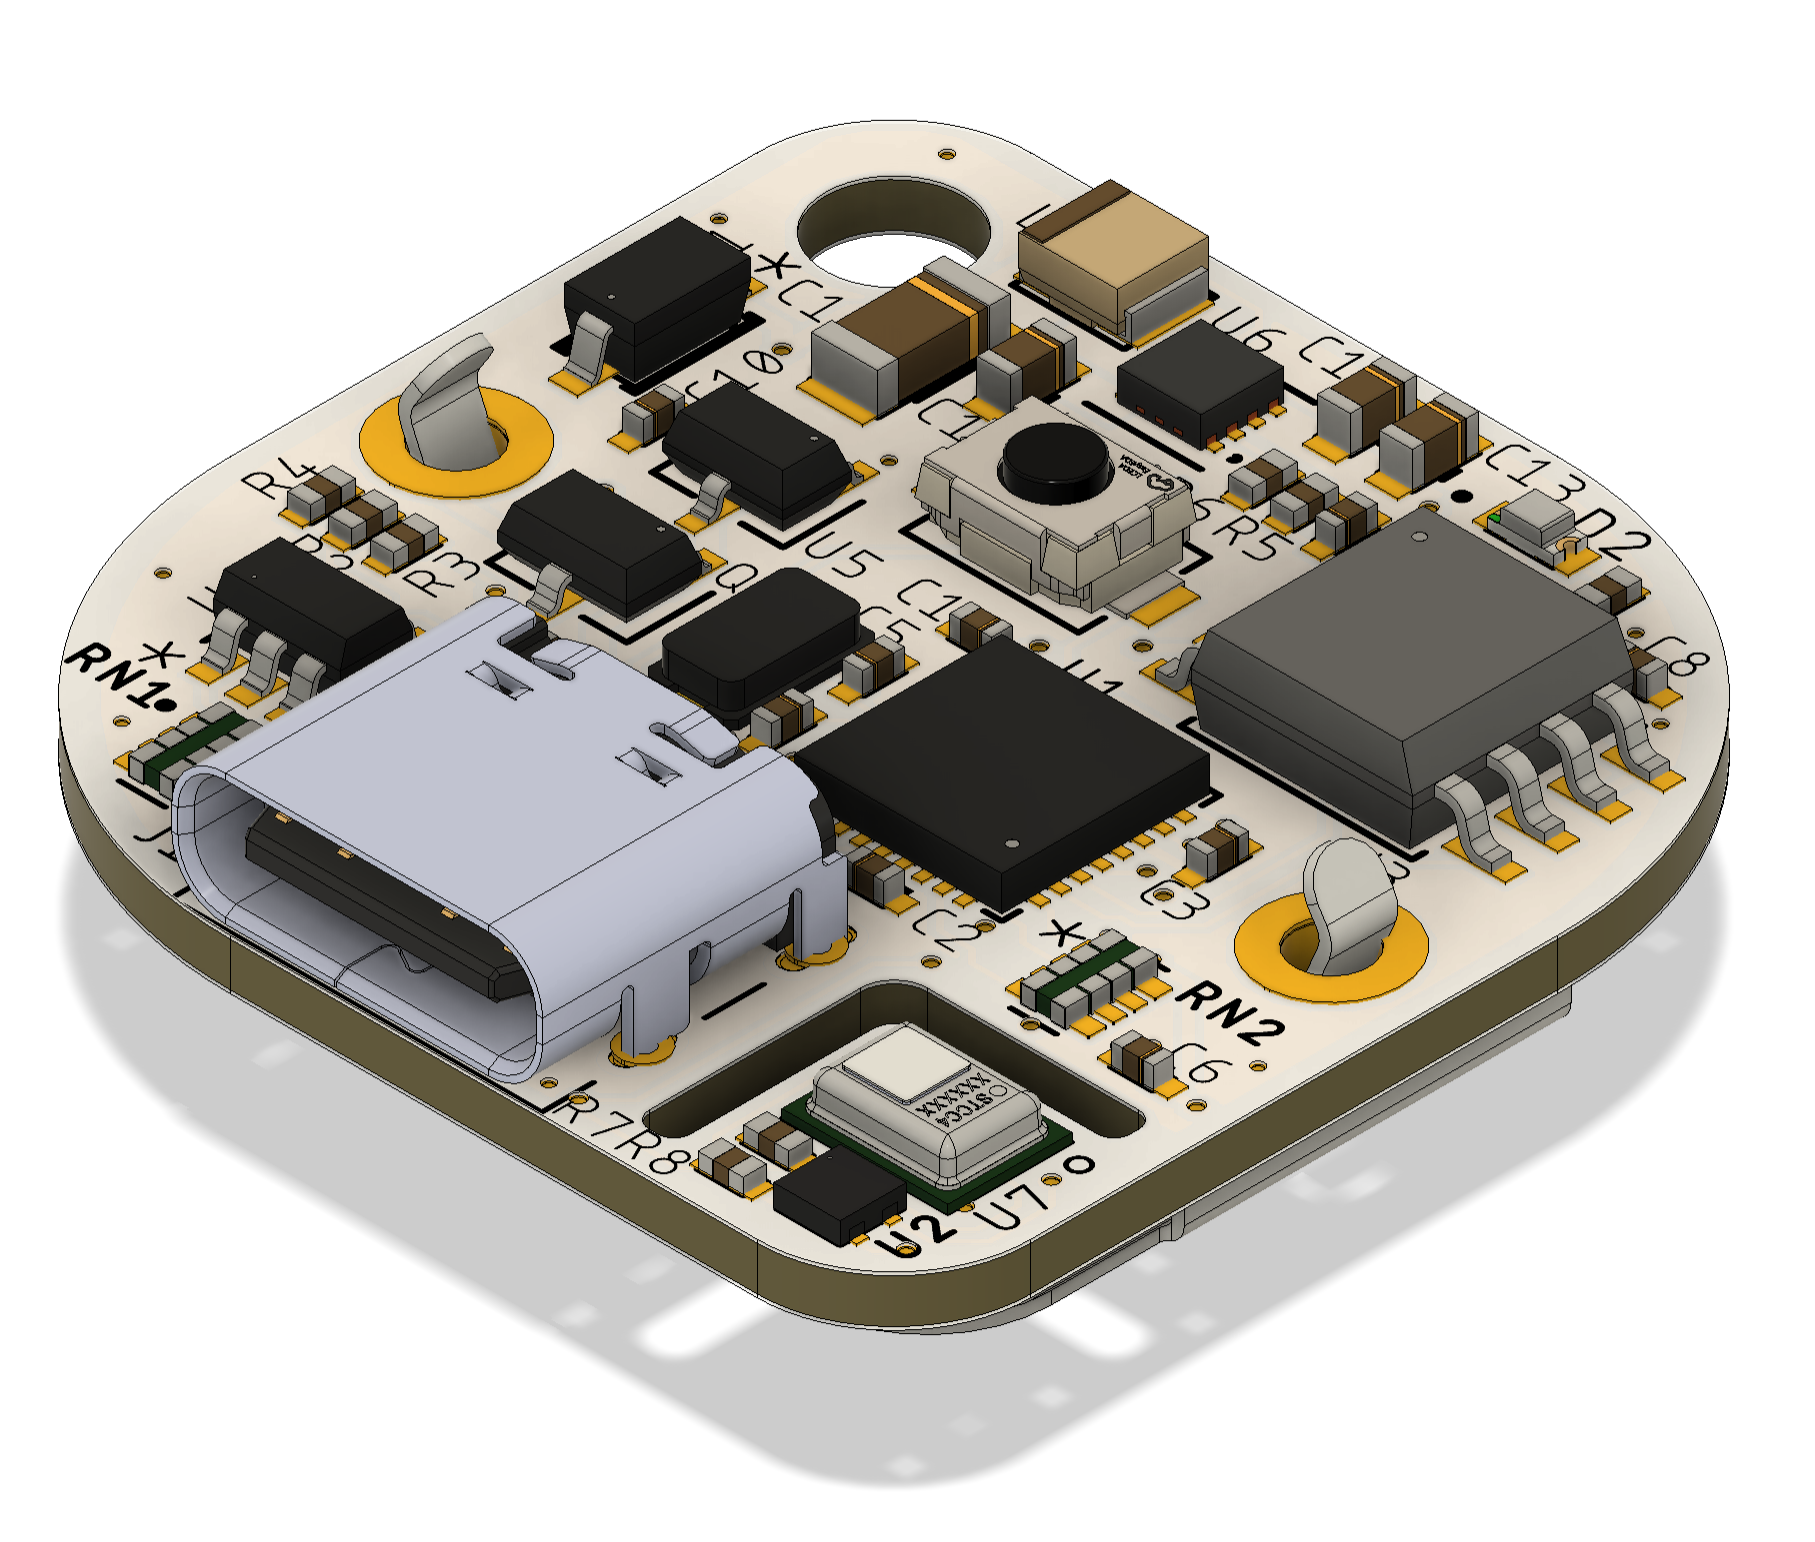
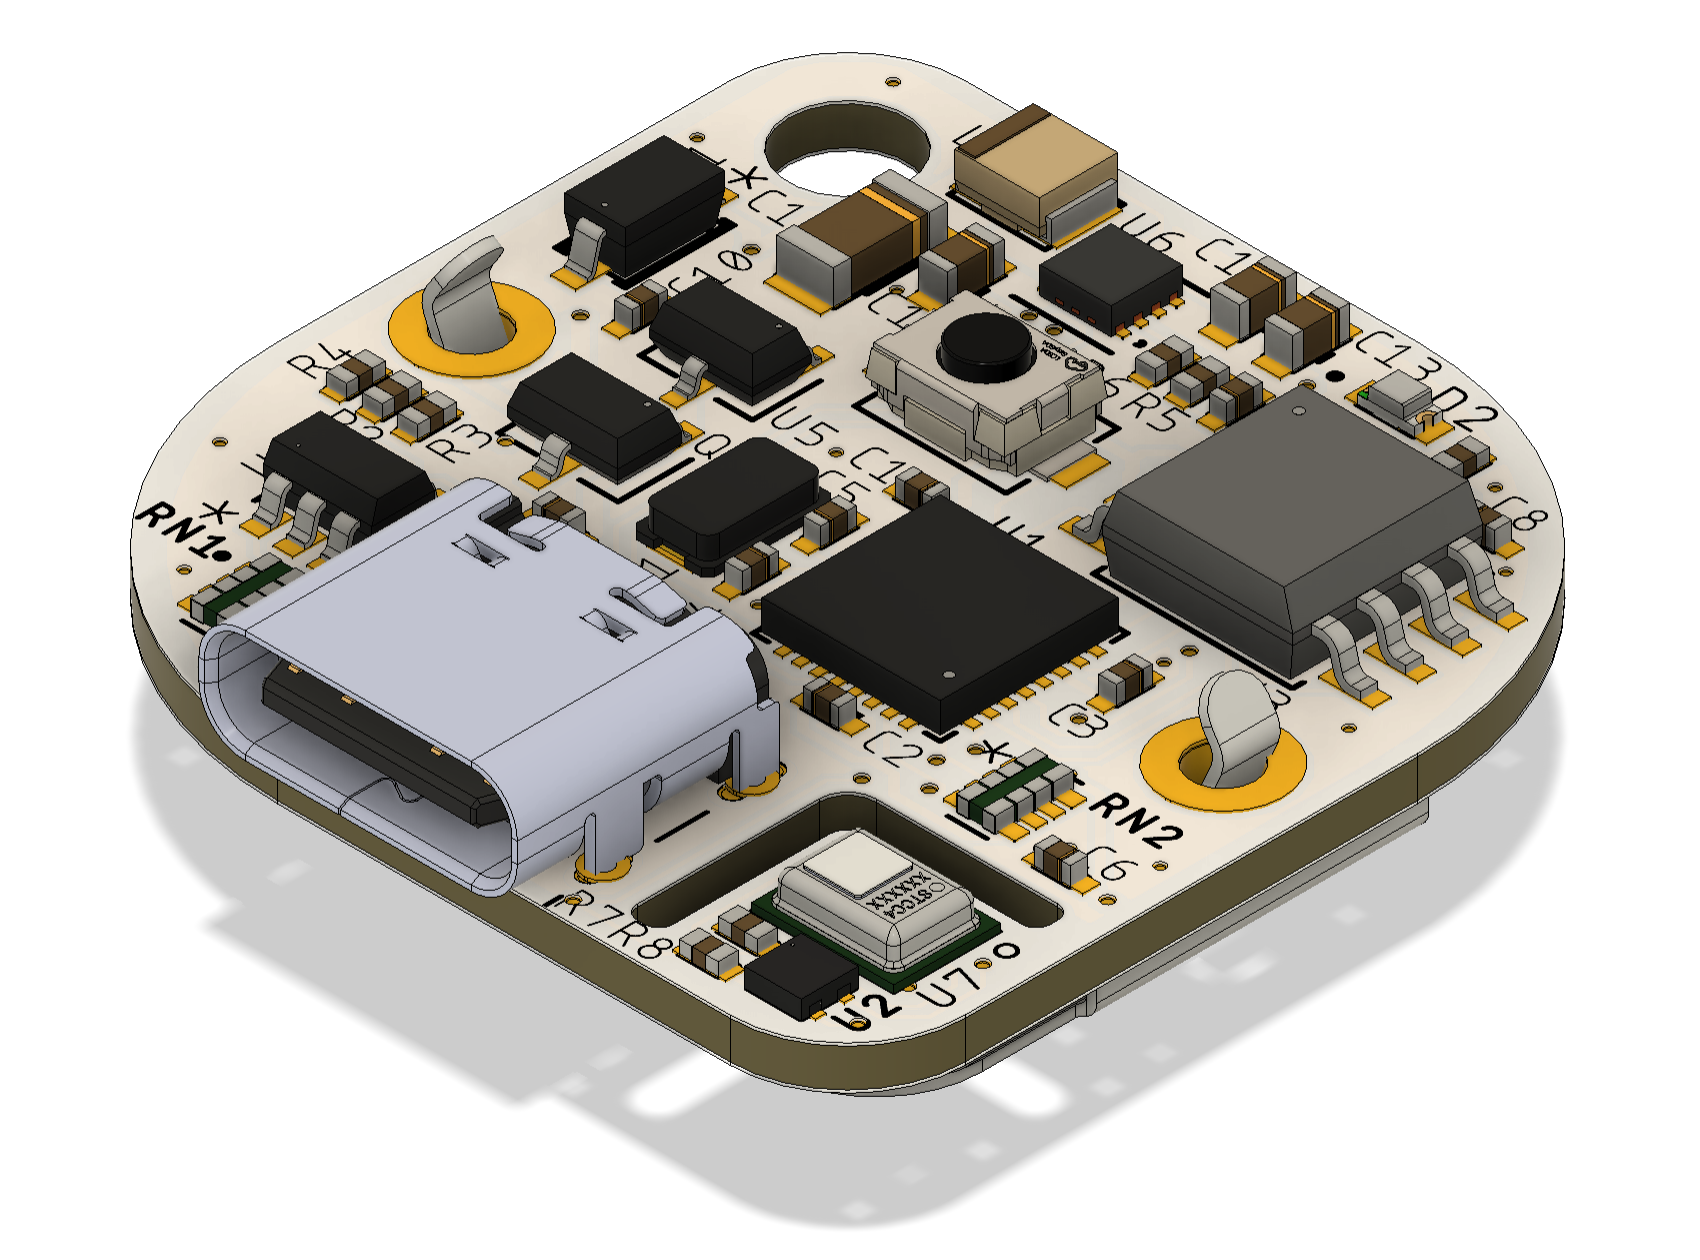
README と取扱説明書を追加、基板の外観・レイアウト図を更新

Changed region(s): [[0.0312, 0.031, 0.9665, 0.8976], [0.4365, 0.9286, 0.5924, 0.9905], [0.2182, 0.8048, 0.2494, 0.8357]]

diff --git a/docs/manual.md b/docs/manual.md
@@ -1,0 +1,155 @@
+# C-Logger 取扱説明書
+
+C-Logger は、温度・湿度（CO2あり版は CO2 濃度も）を一定間隔で記録するデータロガーです。
+ボタン電池（CR2032）1個で動き、記録したデータは USB で PC に読み出して CSV ファイルにします。
+
+![C-Logger](images/3d_top.png)
+
+## 1. 製品の種類
+
+| 種類 | 記録する項目 |
+|---|---|
+| CO2あり版 | CO2 濃度・温度・湿度 |
+| CO2なし版 | 温度・湿度 |
+
+どちらの版かは、PCツールの接続時に表示される「Sensors」の欄で確認できます。
+
+## 2. 各部の名前
+
+- **USB 端子（Type-C）**: PC との通信と給電に使います。
+- **ボタン**: ケース上面の小さな穴の奥にあります。ペン先など細いもので押してください。押している間 LED が点灯します（動作の確認用）。5秒間押し続けると記録を止めます。
+- **LED（赤）**: 状態を表示します（「4. LED の表示」を参照）。
+- **電池ホルダ（裏面）**: CR2032 を1個入れます。
+
+## 3. 電池の入れ方
+
+1. 本体を裏返し、電池ホルダの金具の下に CR2032 を横から差し込みます。
+2. **＋面（文字が書かれた面）を金具側（外側）**に向けます。逆に入れると動きません。
+3. 電池を入れると、USB につないでいなければ待機状態になります（LED は消灯）。
+
+- 電池を交換するときは、記録を止めてから交換してください。記録中に電池を抜いても、それまでに記録したデータは消えません。
+- USB につないでいる間は USB から給電され、電池は使いません。
+
+## 4. LED の表示
+
+| 状態 | LED |
+|---|---|
+| USB 通信中（USB につないでいる） | 1秒ごとに短く1回点滅 |
+| 記録中 | 消灯（ボタンを押している間だけ点灯） |
+| 待機中（電池のみ、記録していない） | 消灯（ボタンを押している間だけ点灯） |
+| 電池切れ | 3秒ごとに1回点滅（記録は止まっています） |
+| ファームウェア更新の待機中 | 約0.7秒ごとに短く2回点滅（「7-2. ファームウェアの更新」を参照） |
+
+## 5. 使い方の流れ
+
+1. **PCツールを用意する**（「6. PCツール」を参照）。
+2. **記録を始める**: USB で PC につなぎ、PCツールで記録間隔を指定して記録を開始します。時刻は PC に合わせられ、それまでのデータは消去されます。
+3. **設置する**: 記録を始めると本体は USB から切り離されます。USB ケーブルを抜いて設置してください。電池で記録を続けます。
+4. **回収してデータを読み出す**: USB で PC につなぐと記録が止まり、USB 通信の状態になります（データは消えません）。PCツールで CSV に保存します。
+
+記録を止める方法は2つです。
+
+- USB で PC につなぐ
+- ボタンをペン先などで5秒間押し続ける（LED が点灯したまま5秒たつと記録が止まります）
+
+## 6. PCツール
+
+ドライバは不要です（Windows 10 以降は、標準の USB シリアルとして認識されます）。
+
+### 6-1. GUI 版
+
+`CLogger.exe` をダブルクリックして起動します。署名の無い exe のため、初回に Windows SmartScreen が表示されたら「詳細情報」→「実行」を選んでください。
+Python がある場合は、`pip install pyserial` の後に `python clogger_gui.py` でも起動できます。画面の表示は英語です。
+
+1. USB でつないで **Connect** を押します（ポートは自動で見つけます）。上部に機器の情報（ファームウェアの版、機体 ID、電池電圧、保存件数、記録期間、センサの構成）が表示されます。
+2. **Logging** タブ: 記録間隔（1〜3600秒）を入れて **Start logging…** を押します。メモリが何日分もつかも表示されます。
+3. **Data** タブ: **Save as CSV…** で保存します。**Erase all data…** で全データを消去します。
+4. **Live view** タブ: 温度・湿度（CO2あり版は CO2 も）を1秒ごとに表示します（保存はしません）。
+5. **Clock** タブ: 時計のずれを測って補正します（「7-1. 時計の補正」を参照）。
+6. **Diagnostics** タブ: 自己診断（メモリ・センサ・計測）を行います。
+
+### 6-2. コマンド版
+
+`pip install pyserial` の後、USB でつないで実行します。
+
+```
+python clogger.py info              機器の情報・状態・電池電圧
+python clogger.py start -i 60       時刻を合わせて記録開始（記録間隔60秒。既存データは消去）
+python clogger.py read              保存データを CSV に保存
+python clogger.py measure           温度・湿度（CO2）を連続表示（保存しない）
+python clogger.py selftest          自己診断
+python clogger.py clear             保存データの消去
+python clogger.py clock -m 60       時計のずれを60分測る（--apply で補正値を書き込む）
+python clogger.py clock --set 0     時計の補正値を設定する（0 で補正なし）
+```
+
+## 7. 記録について
+
+- **記録間隔**: 1〜3600秒。
+- **記録できる件数**: 約275万件（記録間隔1分で約5年、1秒で約1か月）。いっぱいになると記録を止めます（古いデータを上書きしません）。
+- **時刻**: 各記録の時刻は、記録間隔の終わりの時刻です。
+- **CO2（CO2あり版）**: 記録開始直後の約24秒はセンサの準備を行うため、記録はその後から始まります。CO2 は各記録間隔の最後の5秒間の平均、温度・湿度はその最後の測定値です。
+- **電池切れ**: 電池の電圧が 2.0V を下回った状態が10秒続くと、データを守るため記録を止めます。
+
+### CSV の形式
+
+| 列 | 内容 |
+|---|---|
+| index | 記録の番号（0から） |
+| epoch | 時刻（UNIX時刻、秒） |
+| datetime | 時刻（PC の時刻帯で表示） |
+| temp_C | 温度 [℃] |
+| hum_pct | 相対湿度 [%] |
+| co2_ppm | CO2 濃度 [ppm]（CO2なし版は空欄） |
+
+計測に失敗した記録は、temp_C・hum_pct・co2_ppm が空欄になります。
+
+### 7-1. 時計の補正
+
+本体の時計は水晶で動いており、1台ごとに最大で ±20 ppm（1日に ±1.7 秒、1か月に ±52 秒）程度ずれることがあります。
+記録の時刻をより正確にしたいときは、PC の時計を基準にずれを測り、補正値を本体に保存できます。補正値は電池を抜いても消えません。
+
+1. PC の時刻をインターネットの時刻に合わせます（Windows の「設定」→「時刻と言語」→「今すぐ同期する」）。
+2. 本体を USB でつなぎ、10分ほど置いて温度を落ち着かせます。測定中は室温を大きく変えないでください。
+3. GUI 版の **Clock** タブで測定時間（60分を推奨）を選び、**Measure** を押します。測定中は PC と本体をつないだままにしてください。
+4. 終わると、ずれ（Drift）と推奨の補正値（Suggested）が表示されます。**Apply correction** で本体に保存します。
+5. 確認したいときは、もう一度測ります。ずれが 0 に近ければ補正できています。
+
+- 補正は 1 ppm 単位、±127 ppm まで設定できます。**Reset correction to 0** で補正をやめられます。
+- 水晶は温度によっても少しずれます（25℃ から 10℃ 離れると、遅れる向きに約 3 ppm）。
+
+### 7-2. ファームウェアの更新
+
+新しいファームウェア（`.hex` ファイル）が公開されたときは、USB で書き換えられます。記録したデータと時計の補正値は消えません。
+
+1. 電池を外し、USB ケーブルも抜きます。
+2. ボタンをペン先などで押したまま、USB ケーブルで PC につなぎます。
+3. LED が約0.7秒ごとに短く2回点滅する（ファームウェア更新の待機状態）ようになったら、ボタンを離します。
+4. GUI 版の **Firmware** タブで **Browse…** からファームウェアのファイルを選び、**Update** を押します。
+5. 「Firmware updated」と表示されたら、USB ケーブルを抜き差しします。新しいファームウェアで起動します。
+
+## 8. 困ったとき
+
+| 症状 | 確認すること |
+|---|---|
+| PC につないでも認識されない | USB ケーブルが充電専用でないか。別のケーブルや USB ポートで試す |
+| PCツールで見つからない | 他のソフトが同じ COM ポートを開いていないか |
+| 電池で動かない（ボタンを押しても LED が点かない） | 電池の向き（＋面が外側）、電池の残量 |
+| LED が3秒ごとに1回点滅する | 電池切れです。新しい電池に交換するか、USB につないでデータを読み出してください |
+| 温度が高めに出る | USB につないだ直後は基板が温まっています。電池で動かしてしばらく置いてください |
+
+## 9. 仕様
+
+| 項目 | 内容 |
+|---|---|
+| 電源 | CR2032 ×1、USB 給電（USB 接続中は電池を使わない） |
+| センサ | 温湿度: Sensirion SHT40、CO2（CO2あり版）: Sensirion STCC4 |
+| 記録容量 | 16MB（約275万件） |
+| 通信 | USB 2.0 Full Speed（仮想 COM ポート）、Type-C |
+| 外形 | 基板 26 × 26 mm |
+
+センサの精度は、各センサのデータシート（`hardware/datasheet/`）を参照してください。
+
+## 10. ソフトウェアのライセンス
+
+PCツールの GUI 版（`CLogger.exe`）には、ファームウェアの書き込みのために avrdude 8.1（GPL v2）を同梱しています。ライセンス文は `COPYING_avrdude.txt` です。同梱している avrdude のソースコードは、この配布から3年間、求めに応じて提供します。[GitHub の Issues](https://github.com/et0614/c-logger/issues) からご連絡ください。

diff --git a/README.md b/README.md
@@ -1,0 +1,74 @@
+# C-Logger — 温湿度・CO2 データロガー
+
+温度・湿度（CO2あり版は CO2 濃度も）を一定間隔で内蔵フラッシュメモリに記録するデータロガー。
+ボタン電池（CR2032）で動き、USB-C で PC につないでデータを読み出す。同じ基板で CO2あり版と CO2なし（温湿度のみ）版を作れる。
+
+使い方は **[取扱説明書](docs/manual.md)** を参照。
+
+![C-Logger 基板（3D）](docs/images/3d_top.png)
+
+| 項目 | 内容 |
+|---|---|
+| MCU | AVR64DU32（ネイティブ USB） |
+| センサ | SHT40（温湿度）、STCC4（CO2、CO2あり版のみ） |
+| 記録媒体 | W25Q128 16MB（1件6バイト、約275万件） |
+| 電源 | CR2032 ×1。USB 接続中は USB 給電（自動切替） |
+| PC 通信 | USB-CDC（ドライバ不要）、Type-C |
+| 基板 CAD | Fusion |
+
+## ディレクトリ構成
+
+```
+docs/
+  manual.md             取扱説明書
+  images/               基板の外観 (3d_top/3d_bottom) とレイアウト (pcb_top/pcb_bottom)
+hardware/
+  BOM.xlsx              設計用部品表（JLCPCB 部品番号・単価・CO2あり/なしの別）
+  datasheet/            主要部品のデータシート（ファイル名=参照記号）
+  pcb/                  Fusion 設計データ (clogger.f3z)、回路図 PDF
+  fab/                  JLCPCB 入稿データ（ガーバー、BOM・CPL を CO2あり/なし版それぞれ）
+  enclosure/            ケース（上蓋）: case.3dm (Rhino)、case.stp (発注用)
+  cost_estimate_next.xlsx  100台製造時の費用見積もり
+firmware/clogger.X/     MPLAB X プロジェクト（AVR64DU32, MCC Melody: clogger.mc3）
+firmware/bootloader/    USB ブートローダ（euboot）。USB でのファームウェア更新と、量産用の1ファイル化 (build_production_hex.py)
+software/               PCツール: clogger_gui.py (GUI)、clogger.py (コマンド版・通信ライブラリ)、build_exe.bat (exe化)
+                        開発用: read.py / start.py / selftest.py / usb_test.py / clock_drift.py
+```
+
+## バージョン
+
+- 基板: 3.0（シルク表記「Version 3.0」）。修正ごとに 3.1, 3.2 … と上げる。履歴は `hardware/fab/README.md`
+- ファームウェア: 3.1.0（`hello` 応答の `fw`。`firmware/clogger.X/version.h`）
+
+## PCツールの exe 化
+
+`pip install pyserial pyinstaller` の後に `software/build_exe.bat` を実行すると `software/dist/CLogger.exe` ができる。
+`software/` に `avrdude.exe` と `avrdude.conf`（avrdude 8.0 以降）を置いておくと exe に同梱され、Firmware タブでファームウェアを更新できる。
+
+## ファームウェアの更新
+
+フラッシュの先頭 2.5 KB に USB ブートローダ（euboot）を置き、ファームウェアは `0x0A00` 以降に置く。ボタンを押したまま起動するとブートローダに入り、PCツールの Firmware タブ（または `clogger.py update`、`avrdude`）で書き換える。詳細は [firmware/bootloader/README.md](firmware/bootloader/README.md)。
+
+## 設計メモ
+
+### 回路
+- **電源**: 電池 (CR2032) → Pch MOSFET (Q1) → 昇圧 (TPS61021A, U6) → 3.3V。USB 接続中は VBUS → LDO (XC6206, U5) → ショットキー (D1) → 昇圧の入力に切り替わる。Q1 のゲートは VBUS（100k で GND へ）なので、USB 接続中は電池を切り離す。電池の逆接保護も兼ねる。K-Logger と同じ回路
+- **帰還抵抗**: 470k / 150k、フィードフォワード 6.8pF（VOUT ≒ 3.29V。K-Logger と同じ）
+- **C14 (100uF)**: ボタン電池は内部抵抗が大きく、フラッシュ書き込み（〜25mA）や STCC4（ピーク 4.2mA）の瞬間電流で電圧が落ちるため残している
+- **USB 接続の検出**: VBUS を 22k / 47k で分圧（約 3.4V）して UDTC に入れる
+- **USB**: Type-C（シェル足はスルーホールの長穴、PTH 指定）。CC1・CC2 は集合抵抗 RN1 を2個並列にして 5.0kΩ で GND へ。ESD 保護 USBLC6 互換 (U4)
+- **CO2あり/なし版**: SHT40 は STCC4 のセンサ用 I2C（SDA_C/SCL_C）につながる。CO2なし版は STCC4 を載せず、R7・R8 (0Ω) で SDA/SCL を SDA_C/SCL_C に直結する。**STCC4 と R7・R8 を同時に実装しない**（STCC4 は SDA_C/SCL_C 側の I2C の親なので、親が2つになり通信できない）。SDA_C/SCL_C には STCC4 内蔵の 10k プルアップがある
+- **SHT40 は必ず AD1B（I2C アドレス 0x44）**。STCC4 は 0x44 の SHT4x しか読まない
+- **ピン割り当て**: LED=PD5、ボタン=PD6、フラッシュ CS=PA1、VBAT=PF5 (AIN21)、UDTC=PF2（基板3.0。次の版で PD2 に変更）、I2C=PA2/PA3、SPI=PA4/PA5/PA6、32kHz 水晶=PF0/PF1。未使用ピンは入力バッファを無効にする
+- **水晶**: FC-135（CL=12.5pF）。負荷容量 C4・C5 は 2×(CL−浮遊容量 2〜5pF) から 18pF。水晶の個体差（±20ppm）は、RTC の水晶誤差補正（RTC.CALIB、1ppm 単位）で1台ずつ合わせる。補正値は EEPROM に保存し、起動時に設定する（`get_clock_calib` / `set_clock_calib`、PCツールの Clock タブ）
+
+### 基板
+- **SHT40 は熱源から離す**: USB 接続中は LDO とマイコンが発熱するので、基板の端に置き、周囲をスリットで切って熱を遮る
+- **電池のマイナス接点**: 電池ホルダ (MY-2032-06) はプラス側の金具だけで、マイナスは基板の円形パッドで受ける。パッドの表面にはんだを盛らない（MPD の推奨。電池のニッケル外装との腐食）。電池の下に配線・ビア・スルーホールの足を置かない（レジストの盛り上がりで電池が浮き、こすれでレジストが剥げると短絡する）
+
+## 開発メモ
+
+- **USB**: AVR64DU のエラッタ 2.8.1（マルチパケット OUT 転送は偶数アドレス必須）を `usb_comm.c` で回避している（K-Logger と同じ）。
+- **USB 接続の検出**: 電池で動いているときに USB を attach すると、D+ のプルアップ電圧が ESD 保護 (USBLC6) のダイオード経由で VBUS に回り込み、UDTC が High に見える。起動時に一度 detach してから UDTC を読み、USB が本当に接続されているときだけ USB を有効にする。
+- **CO2あり/なしの判定**: 起動後の初回計測時に STCC4 (0x64) の応答で判定する。CO2なし版は R7・R8 (0Ω) で SHT40 (0x44) をホストの I2C に直結し、直接読む。記録の co2_ppm は 0xFFFE。
+- **待機**: 電池のみで記録していないときは POWER-DOWN スリープ。フラッシュも Power-down にする（起動時に必ず復帰命令を送る）。起床はボタン (PD6) と USB 接続 (UDTC) のみ。
